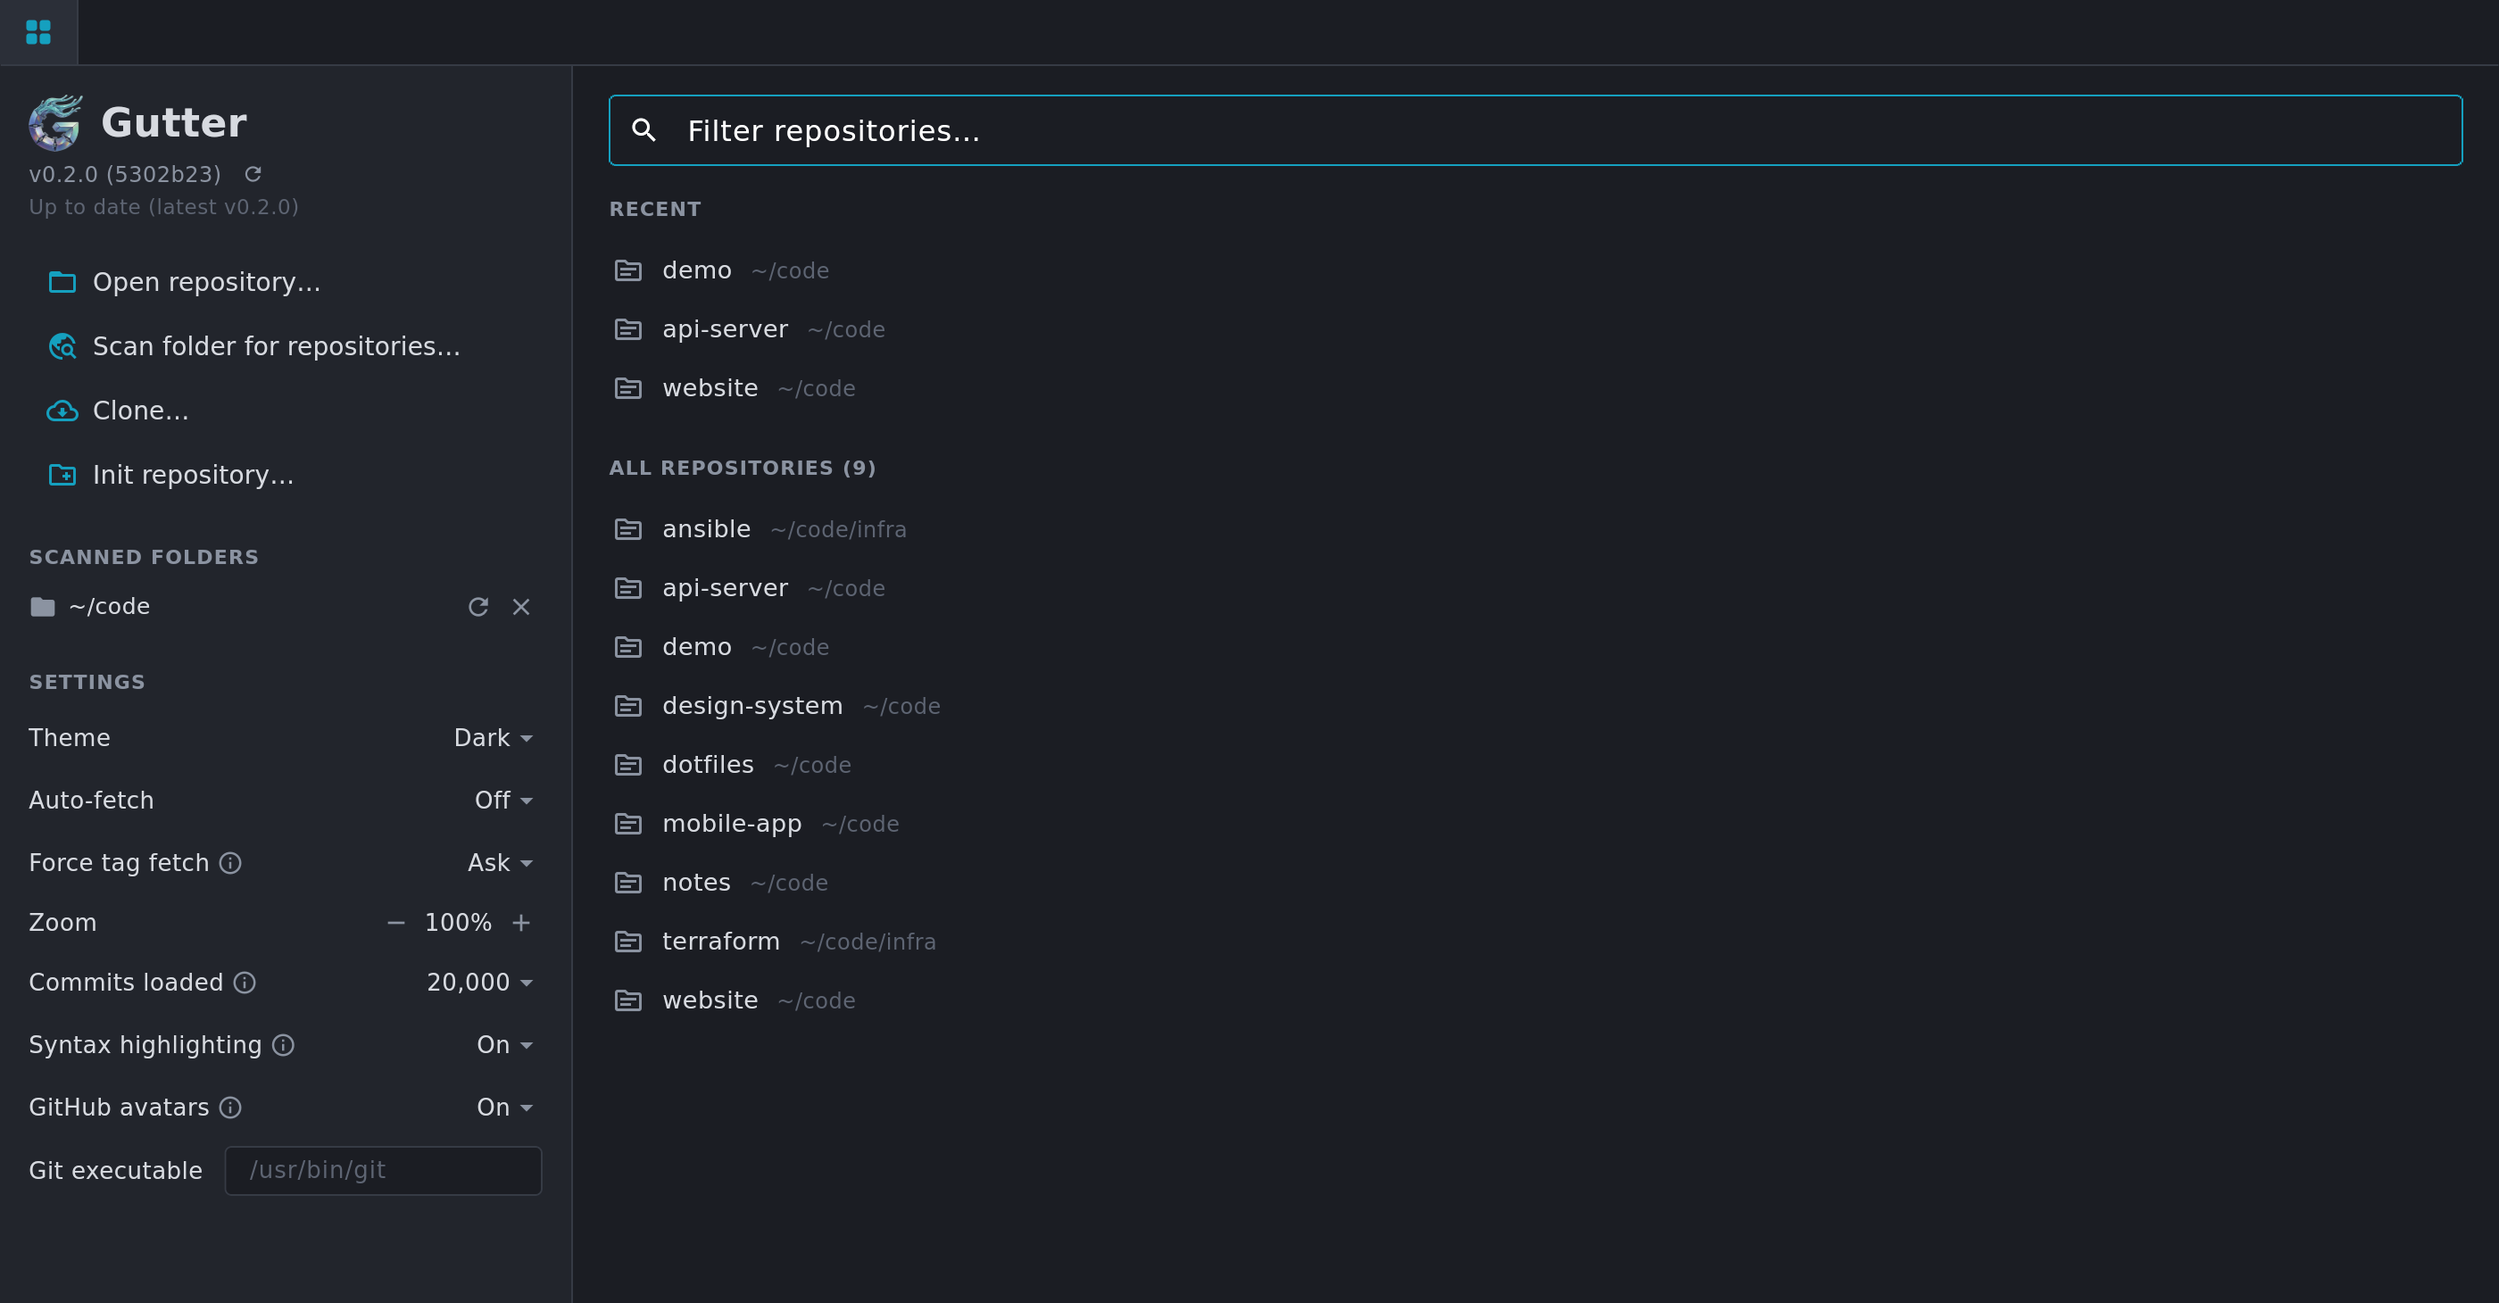
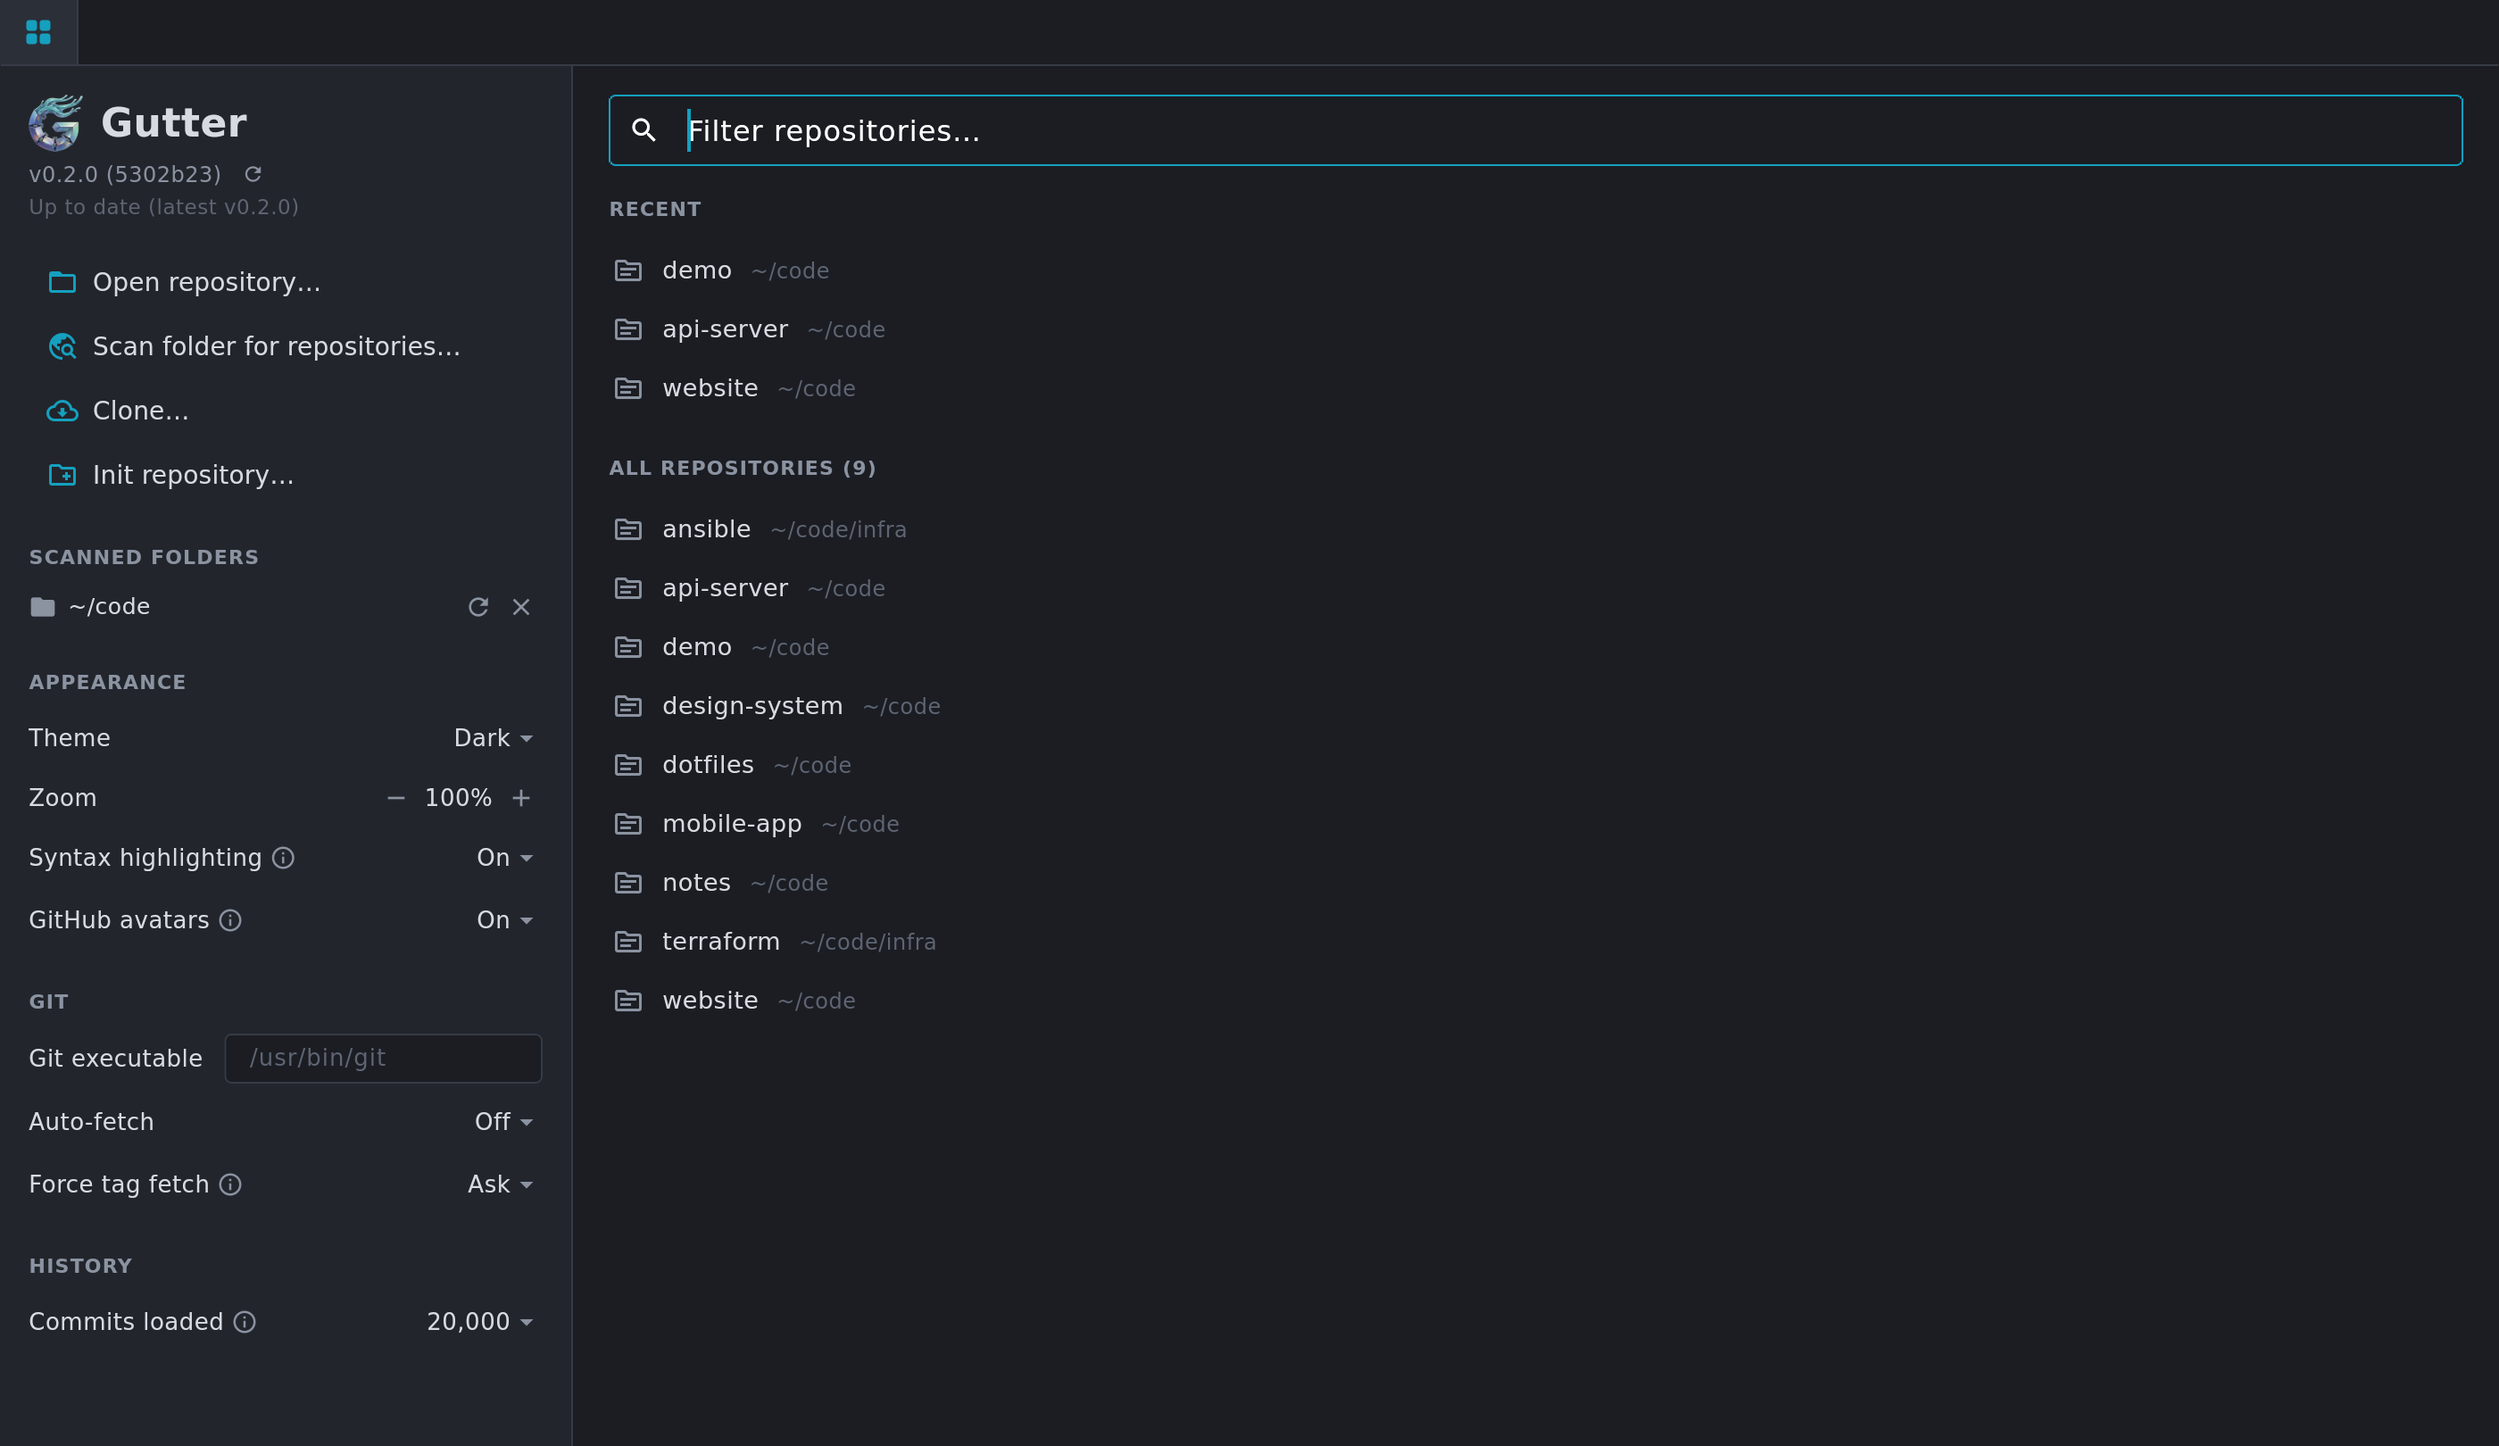
Group settings into Appearance, Git and History

diff --git a/lib/ui/shell/home_tab.dart b/lib/ui/shell/home_tab.dart
@@ -220,7 +220,6 @@ class _HomeTabState extends State<HomeTab> {
                           ),
                         ),
                       const SizedBox(height: 20),
-                      const _Label('SETTINGS'),
                       _SettingsForm(app: app),
                     ],
                   ),
@@ -411,6 +410,7 @@ class _RepoTileState extends State<_RepoTile> {
   }
 }
 
+/// The settings, in sections.
 class _SettingsForm extends StatelessWidget {
   const _SettingsForm({required this.app});
   final AppController app;
@@ -421,6 +421,7 @@ class _SettingsForm extends StatelessWidget {
     return Column(
       crossAxisAlignment: CrossAxisAlignment.stretch,
       children: [
+        const _Label('APPEARANCE'),
         _row(
           'Theme',
           AppDropdown<String>(
@@ -433,35 +434,6 @@ class _SettingsForm extends StatelessWidget {
             ],
             onChanged: app.setThemeMode,
           ),
-        ),
-        _row(
-          'Auto-fetch',
-          AppDropdown<int>(
-            value: s.fetchIntervalMinutes,
-            items: const [
-              (0, 'Off', null),
-              (1, 'Every minute', null),
-              (5, 'Every 5 min', null),
-              (10, 'Every 10 min', null),
-              (30, 'Every 30 min', null),
-            ],
-            onChanged: app.setFetchInterval,
-          ),
-        ),
-        _row(
-          'Force tag fetch',
-          AppDropdown<bool>(
-            key: const ValueKey('force-tag-fetch'),
-            value: s.forceTagFetch,
-            items: const [(false, 'Ask', null), (true, 'Always', null)],
-            onChanged: app.setForceTagFetch,
-          ),
-          info:
-              'When a tag moved on the remote (deploy tags like "dev" or '
-              '"staging" often do), git won\'t move your local one.\n\n'
-              'Ask: Gutter lists the moved tags and offers Force Tag Fetch, '
-              'which replaces your local tags with the remote\'s.\n\n'
-              'Always: every fetch does that, without asking.',
         ),
         _row(
           'Zoom',
@@ -494,26 +466,6 @@ class _SettingsForm extends StatelessWidget {
           ),
         ),
         _row(
-          'Commits loaded',
-          AppDropdown<int>(
-            value: s.maxCommits,
-            items: const [
-              (2000, '2,000', null),
-              (20000, '20,000', null),
-              (100000, '100,000', null),
-              (0, 'All', null),
-            ],
-            onChanged: app.setMaxCommits,
-          ),
-          info:
-              'How many commits a repository loads when it opens. '
-              'Scrolling to the bottom of the graph loads the next batch '
-              'of the same size, so older history is always reachable.\n\n'
-              'All loads the whole history at once: simplest, but slower '
-              'to open very large repositories.\n\n'
-              'Applies to repositories opened from now on.',
-        ),
-        _row(
           'Syntax highlighting',
           AppDropdown<bool>(
             key: const ValueKey('syntax-highlighting'),
@@ -542,13 +494,64 @@ class _SettingsForm extends StatelessWidget {
               'view. Authors whose email isn\'t on a GitHub account keep '
               'their initials.',
         ),
+        const SizedBox(height: 20),
+        const _Label('GIT'),
         _row('Git executable', _GitPathField(app: app), expand: true),
+        _row(
+          'Auto-fetch',
+          AppDropdown<int>(
+            value: s.fetchIntervalMinutes,
+            items: const [
+              (0, 'Off', null),
+              (1, 'Every minute', null),
+              (5, 'Every 5 min', null),
+              (10, 'Every 10 min', null),
+              (30, 'Every 30 min', null),
+            ],
+            onChanged: app.setFetchInterval,
+          ),
+        ),
+        _row(
+          'Force tag fetch',
+          AppDropdown<bool>(
+            key: const ValueKey('force-tag-fetch'),
+            value: s.forceTagFetch,
+            items: const [(false, 'Ask', null), (true, 'Always', null)],
+            onChanged: app.setForceTagFetch,
+          ),
+          info:
+              'When a tag moved on the remote (deploy tags like "dev" or '
+              '"staging" often do), git won\'t move your local one.\n\n'
+              'Ask: Gutter lists the moved tags and offers Force Tag Fetch, '
+              'which replaces your local tags with the remote\'s.\n\n'
+              'Always: every fetch does that, without asking.',
+        ),
+        const SizedBox(height: 20),
+        const _Label('HISTORY'),
+        _row(
+          'Commits loaded',
+          AppDropdown<int>(
+            value: s.maxCommits,
+            items: const [
+              (2000, '2,000', null),
+              (20000, '20,000', null),
+              (100000, '100,000', null),
+              (0, 'All', null),
+            ],
+            onChanged: app.setMaxCommits,
+          ),
+          info:
+              'How many commits a repository loads when it opens. '
+              'Scrolling to the bottom of the graph loads the next batch '
+              'of the same size, so older history is always reachable.\n\n'
+              'All loads the whole history at once: simplest, but slower '
+              'to open very large repositories.\n\n'
+              'Applies to repositories opened from now on.',
+        ),
       ],
     );
   }
 
-  /// A label and its control; with [expand] the control takes the rest of
-  /// the row (text fields) instead of the label.
   /// A label and its control; with [expand] the control takes the rest of
   /// the row (text fields) instead of the label. [info] adds an info icon
   /// after the label that explains the setting (hover or click).
